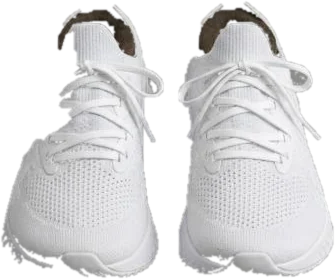
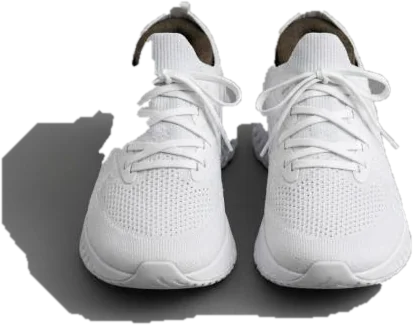
Complete, uncut shoes
Recut the white runners and chunky sneakers without shadow removal, loosen the trim, and mirror the fuller shoe of each pair. Soft floor shadows are kept.

diff --git a/index.html b/index.html
@@ -1321,8 +1321,8 @@ function shoeHalves(img) {
     const tighten = (a, b) => {
       const peak = Math.max(...counts.slice(a, b));
       let l = a, r = b - 1;
-      while (l < r && counts[l] < peak * .3) l++;
-      while (r > l && counts[r] < peak * .3) r--;
+      while (l < r && counts[l] < peak * .1) l++;
+      while (r > l && counts[r] < peak * .1) r--;
       return [l, r + 1];
     };
     halfMarks.set(img, [tighten(0, gap), tighten(gap, img.width)]);
@@ -1455,10 +1455,10 @@ async function paintDummy(canvas, outfit) {
       let shoeTop = CANVAS_H;
       // Feet don't change with the pants: one scale for both shoes, set by the body.
       const scale = (m.hipW * .88) / img.width;
-      // A real pair is a mirror image: take the cleaner (narrower) shoe and mirror it for the
-      // other foot, so both match and no floor shadow or sliver comes along.
+      // A real pair is a mirror image: take the fuller shoe of the photo (the one the split
+      // didn't cut into) and mirror it for the other foot, so both are complete and match.
       const halves = shoeHalves(img);
-      const base = (halves[0][1] - halves[0][0]) <= (halves[1][1] - halves[1][0]) ? 0 : 1;
+      const base = (halves[0][1] - halves[0][0]) >= (halves[1][1] - halves[1][0]) ? 0 : 1;
       [0, 1].forEach(side => {
         const [from, to] = halves[base];
         const halfW = to - from;
